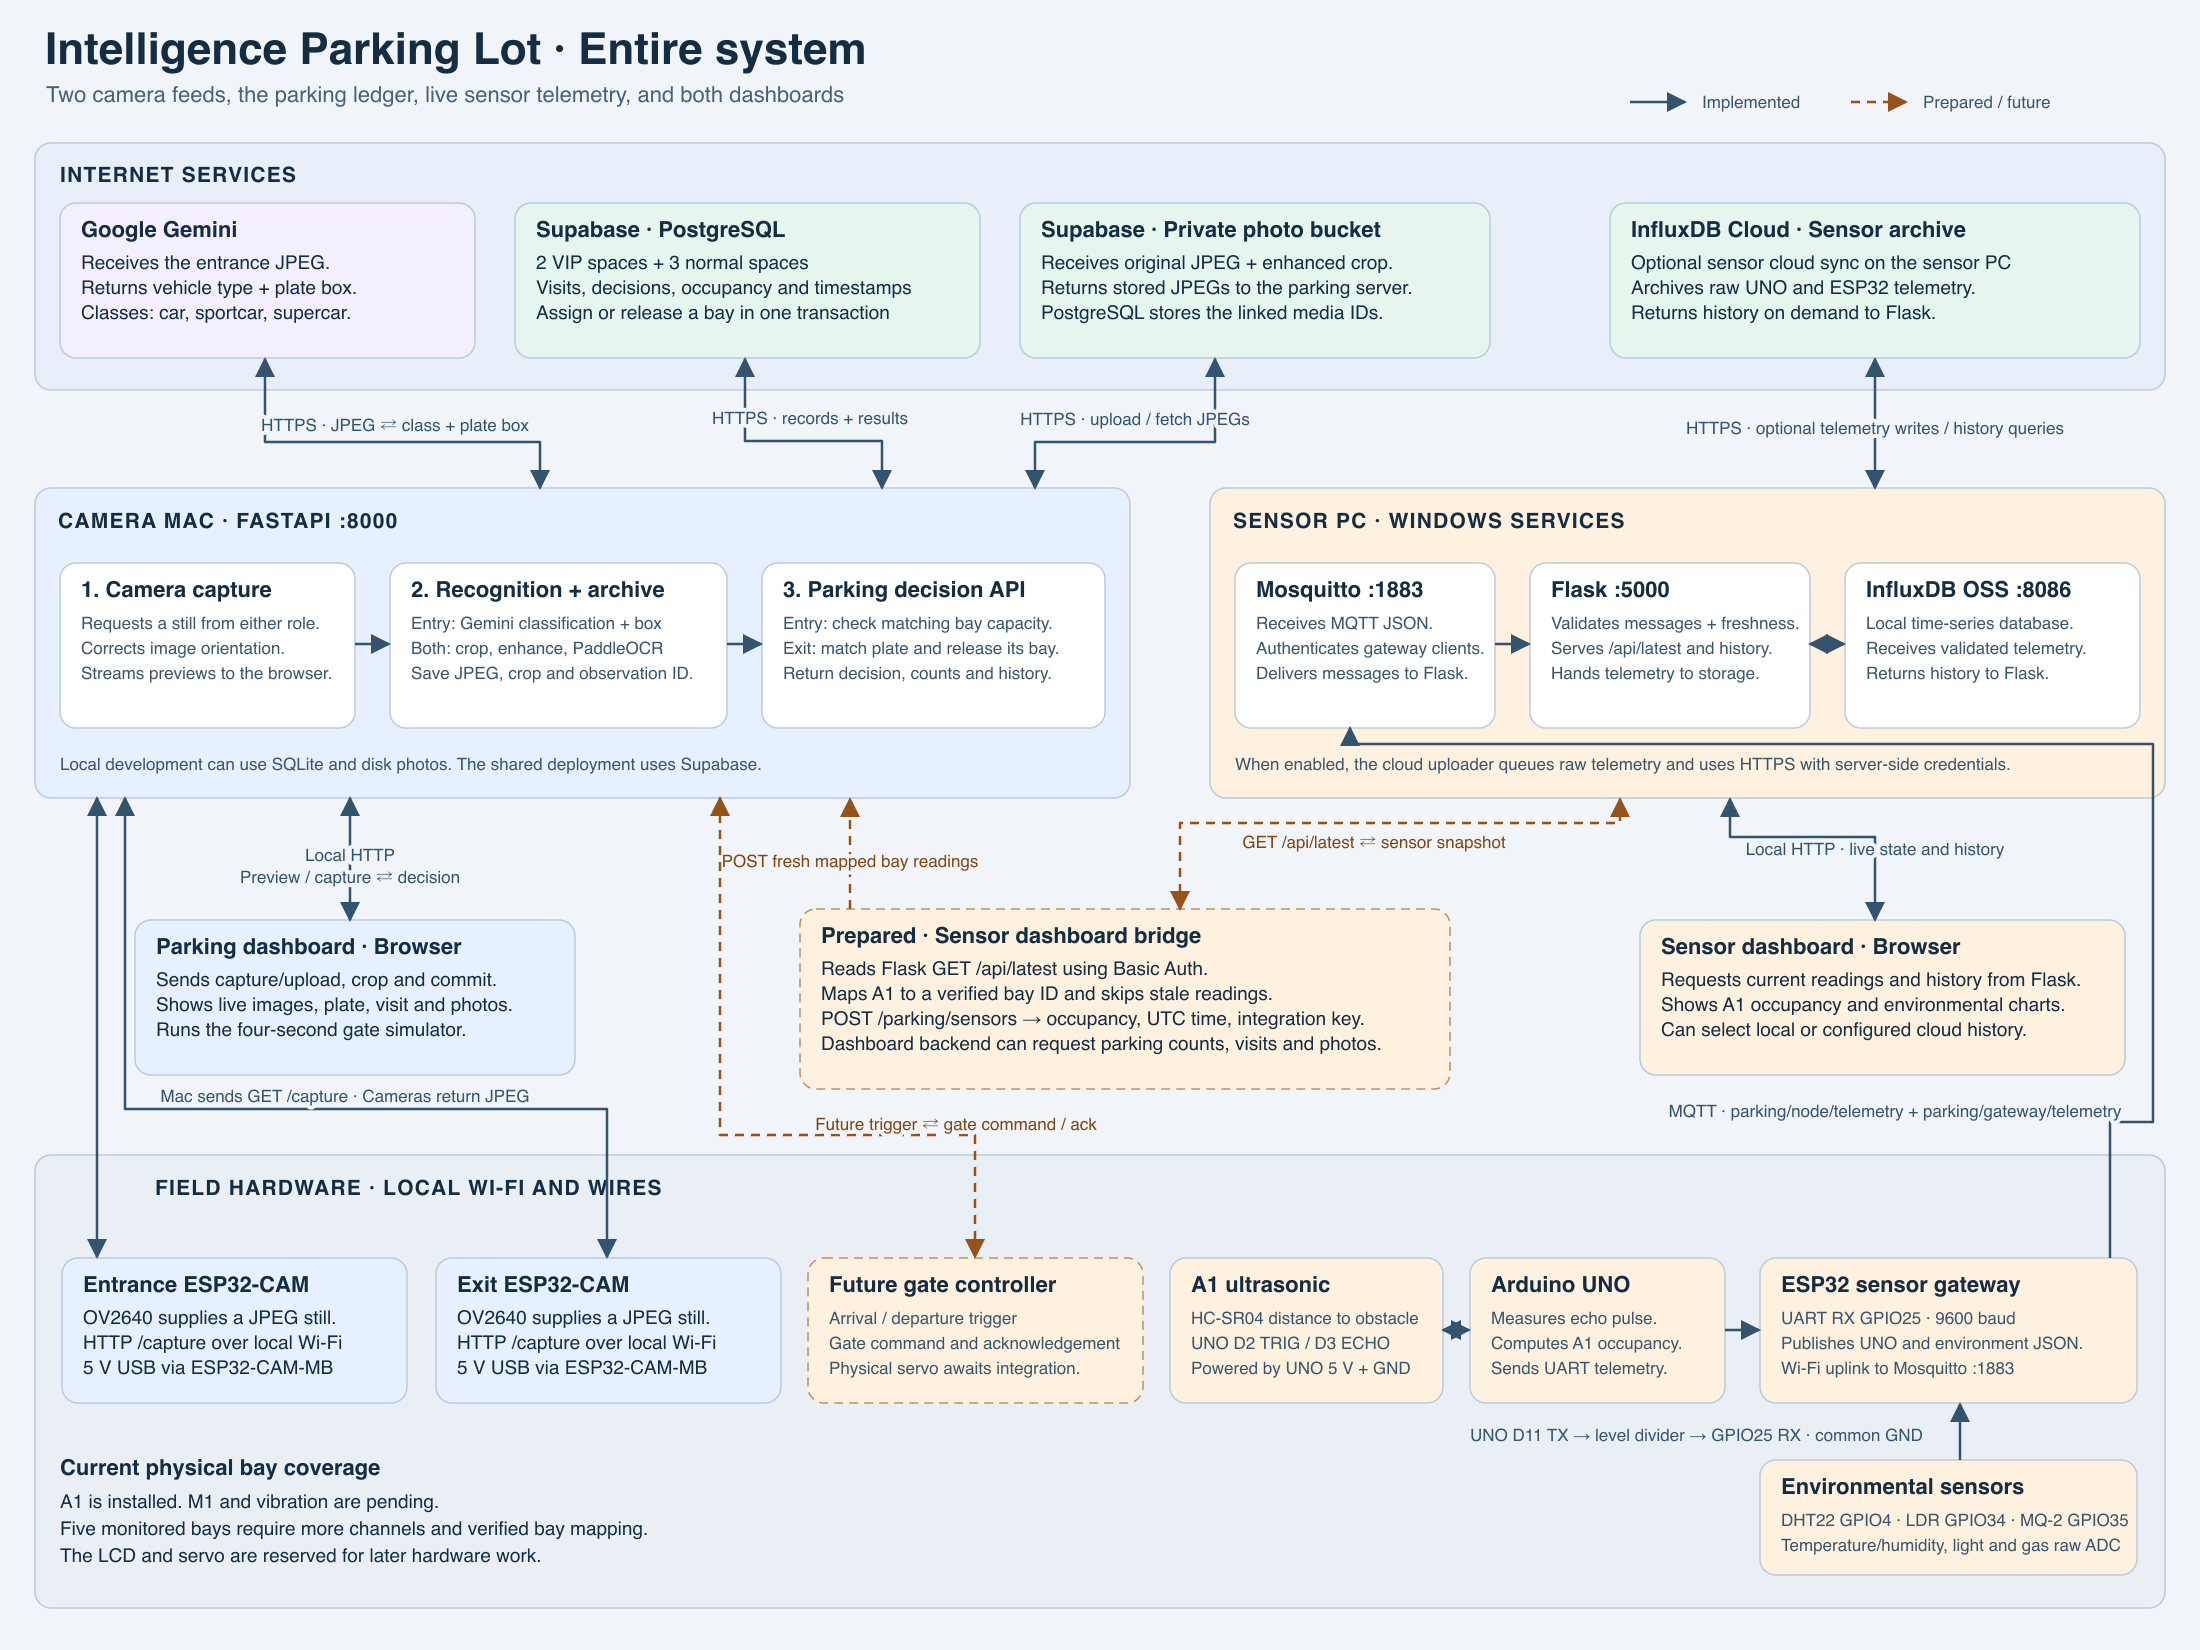
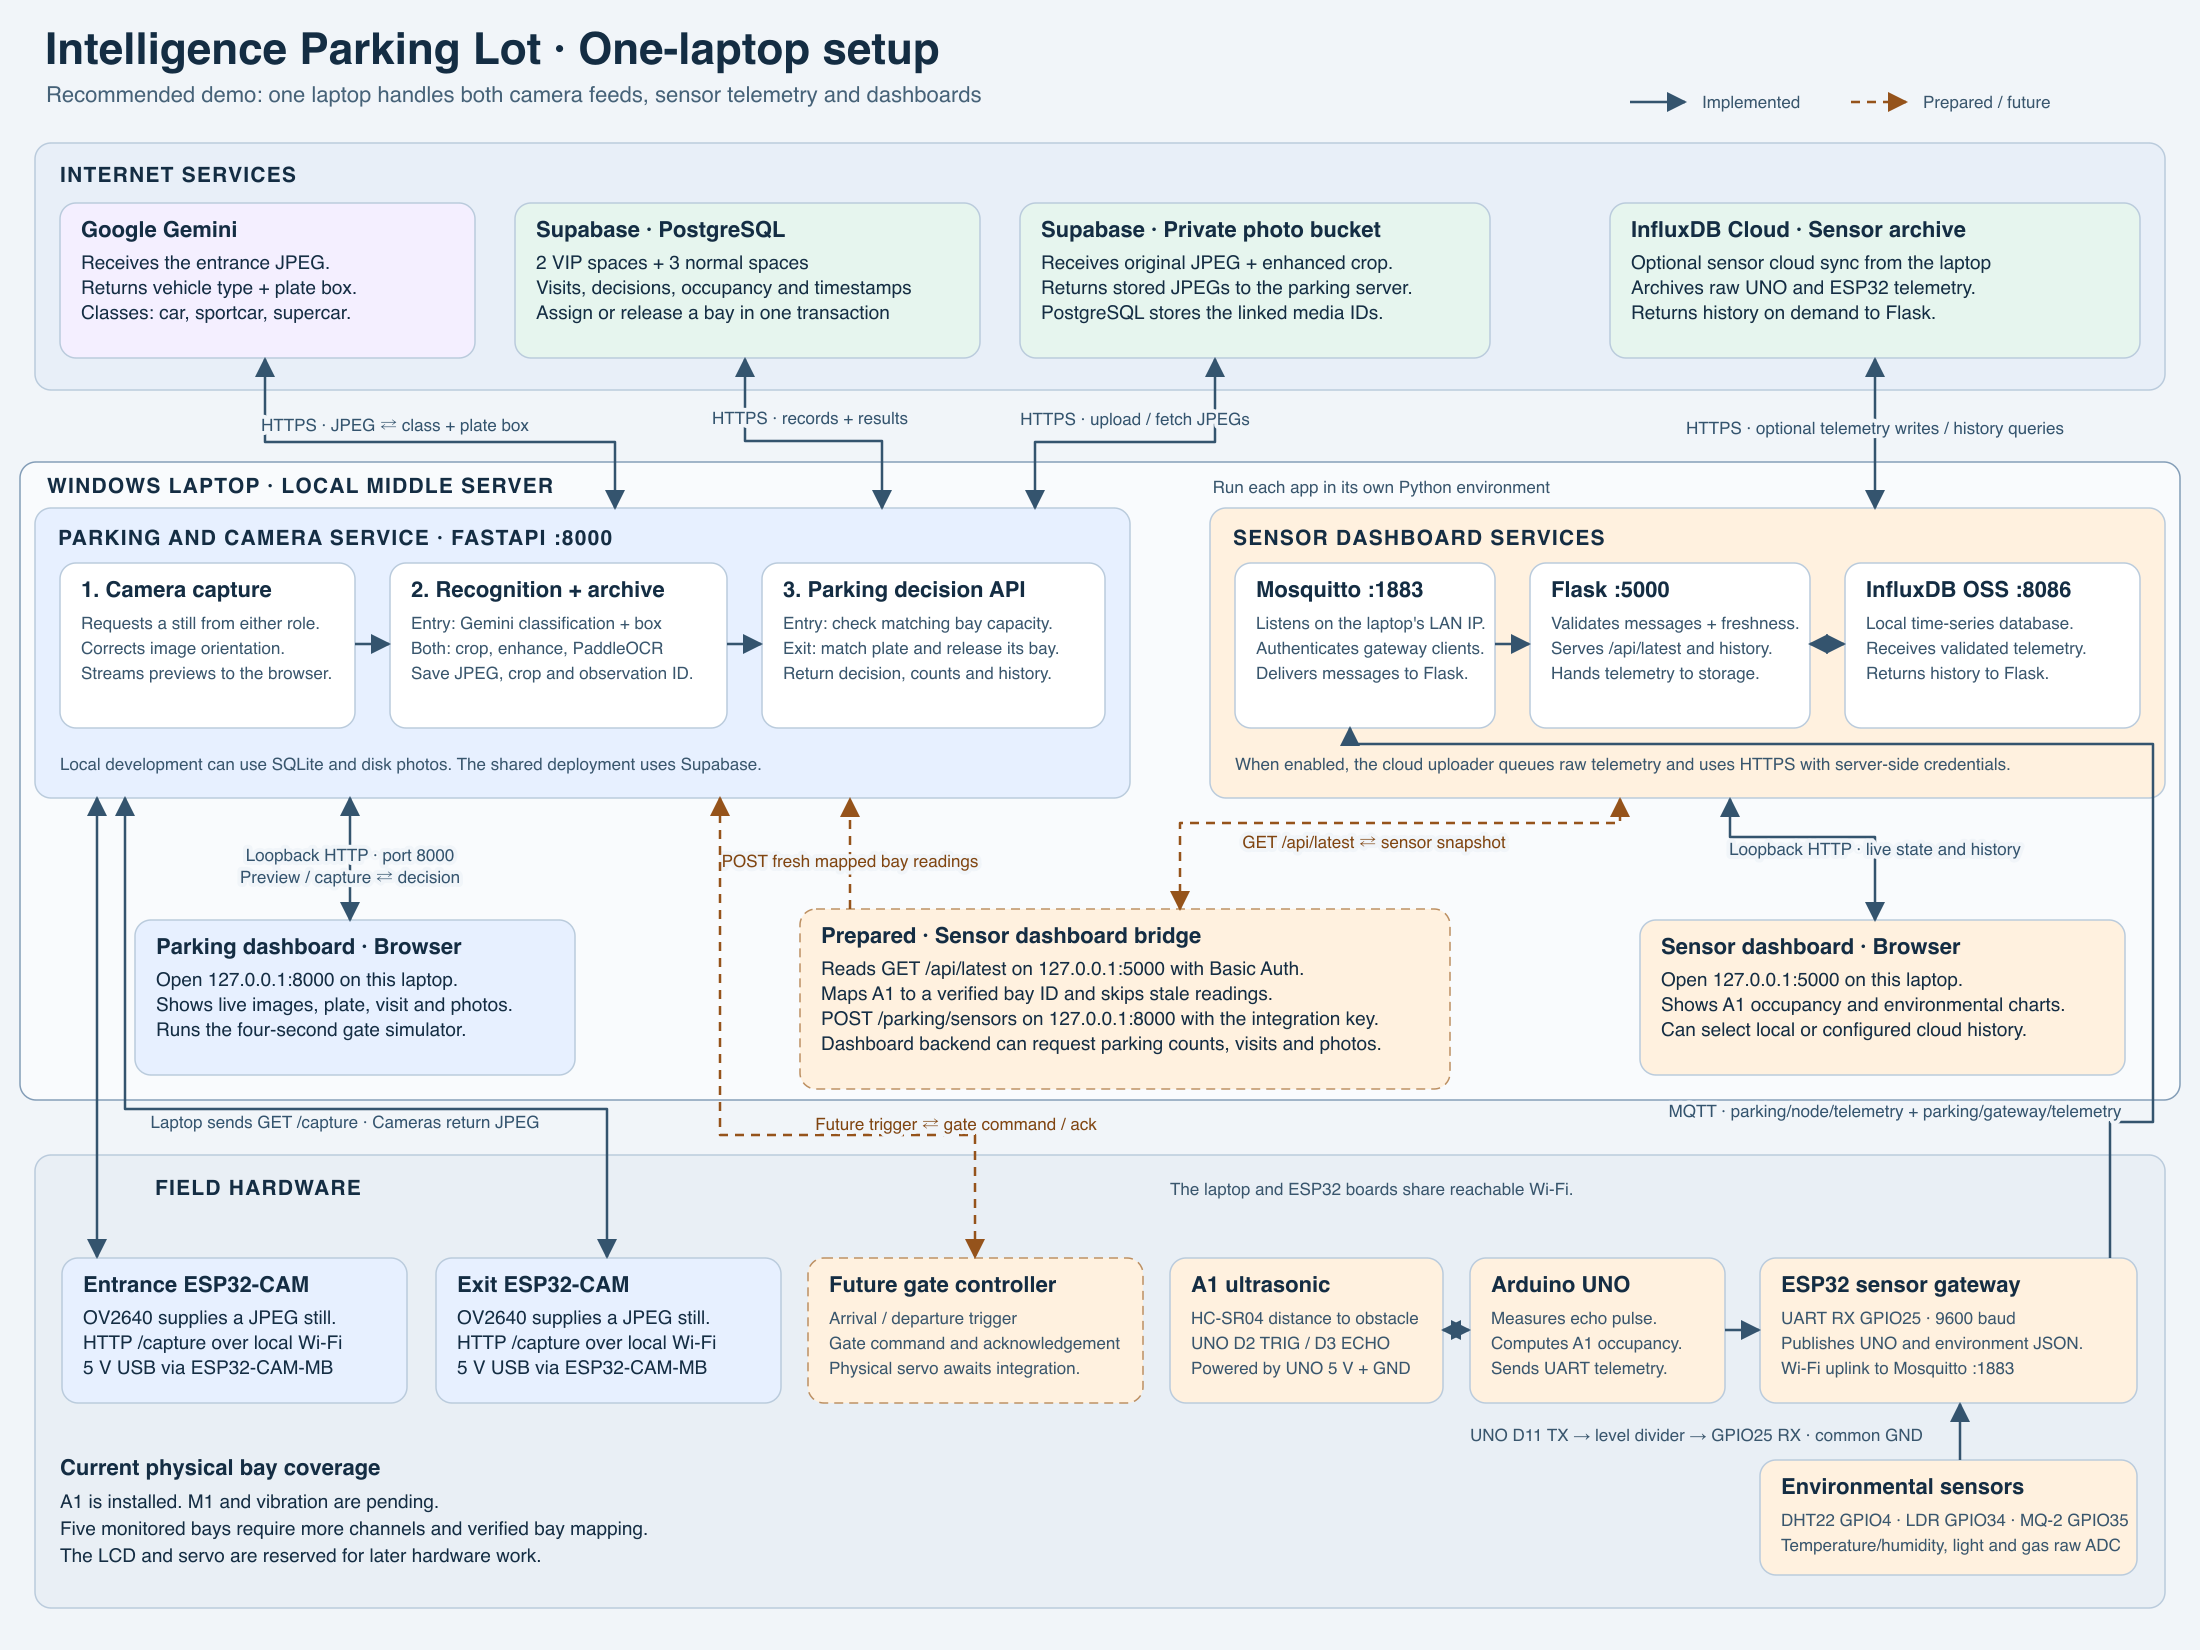
Document the one-laptop parking demo setup

diff --git a/scripts/render_parking_diagrams.py b/scripts/render_parking_diagrams.py
@@ -53,8 +53,8 @@ def label(x, y, *lines, dashed=False):
     text(x, y, lines, "pending-label" if dashed else "label", "middle", 22)
 
 
-text(45, 64, ["Intelligence Parking Lot · Entire system"], "title")
-text(46, 102, ["Two camera feeds, the parking ledger, live sensor telemetry, and both dashboards"], "subtitle")
+text(45, 64, ["Intelligence Parking Lot · One-laptop setup"], "title")
+text(46, 102, ["Recommended demo: one laptop handles both camera feeds, sensor telemetry and dashboards"], "subtitle")
 arrow([(1630, 102), (1685, 102)])
 text(1702, 108, ["Implemented"], "small")
 arrow([(1851, 102), (1906, 102)], dashed=True)
@@ -78,13 +78,17 @@ box(1020, 203, 470, 155, "Supabase · Private photo bucket", [
     "PostgreSQL stores the linked media IDs.",
 ], "#e6f5ee")
 box(1610, 203, 530, 155, "InfluxDB Cloud · Sensor archive", [
-    "Optional sensor cloud sync on the sensor PC",
+    "Optional sensor cloud sync from the laptop",
     "Archives raw UNO and ESP32 telemetry.",
     "Returns history on demand to Flask.",
 ], "#e6f5ee")
 
-panel(35, 488, 1095, 310, "#e7f0ff")
-text(58, 528, ["CAMERA MAC  ·  FASTAPI  :8000"], "section")
+panel(20, 462, 2160, 638, "#f9fbfd", "#839db7")
+text(47, 493, ["WINDOWS LAPTOP  ·  LOCAL MIDDLE SERVER"], "section")
+text(1550, 493, ["Run each app in its own Python environment"], "small", "end")
+
+panel(35, 508, 1095, 290, "#e7f0ff")
+text(58, 545, ["PARKING AND CAMERA SERVICE  ·  FASTAPI  :8000"], "section")
 box(60, 563, 295, 165, "1. Camera capture", [
     "Requests a still from either role.",
     "Corrects image orientation.",
@@ -104,10 +108,10 @@ arrow([(355, 644), (389, 644)])
 arrow([(727, 644), (761, 644)])
 text(60, 770, ["Local development can use SQLite and disk photos. The shared deployment uses Supabase."], "small")
 
-panel(1210, 488, 955, 310, "#fff1df")
-text(1233, 528, ["SENSOR PC  ·  WINDOWS SERVICES"], "section")
+panel(1210, 508, 955, 290, "#fff1df")
+text(1233, 545, ["SENSOR DASHBOARD SERVICES"], "section")
 box(1235, 563, 260, 165, "Mosquitto :1883", [
-    "Receives MQTT JSON.",
+    "Listens on the laptop's LAN IP.",
     "Authenticates gateway clients.",
     "Delivers messages to Flask.",
 ], cls="small")
@@ -125,42 +129,43 @@ arrow([(1495, 644), (1529, 644)])
 arrow([(1810, 644), (1844, 644)], both=True)
 text(1235, 770, ["When enabled, the cloud uploader queues raw telemetry and uses HTTPS with server-side credentials."], "small")
 
-arrow([(540, 488), (540, 442), (265, 442), (265, 359)], both=True)
+arrow([(615, 508), (615, 442), (265, 442), (265, 359)], both=True)
 label(395, 431, "HTTPS · JPEG ⇄ class + plate box")
-arrow([(882, 488), (882, 441), (745, 441), (745, 359)], both=True)
+arrow([(882, 508), (882, 441), (745, 441), (745, 359)], both=True)
 label(810, 424, "HTTPS · records + results")
-arrow([(1035, 488), (1035, 442), (1215, 442), (1215, 359)], both=True)
+arrow([(1035, 508), (1035, 442), (1215, 442), (1215, 359)], both=True)
 label(1135, 425, "HTTPS · upload / fetch JPEGs")
-arrow([(1875, 488), (1875, 359)], both=True)
+arrow([(1875, 508), (1875, 359)], both=True)
 label(1875, 434, "HTTPS · optional telemetry writes / history queries")
 
 box(135, 920, 440, 155, "Parking dashboard · Browser", [
-    "Sends capture/upload, crop and commit.",
+    "Open 127.0.0.1:8000 on this laptop.",
     "Shows live images, plate, visit and photos.",
     "Runs the four-second gate simulator.",
 ], "#e7f0ff")
 box(800, 909, 650, 180, "Prepared · Sensor dashboard bridge", [
-    "Reads Flask GET /api/latest using Basic Auth.",
+    "Reads GET /api/latest on 127.0.0.1:5000 with Basic Auth.",
     "Maps A1 to a verified bay ID and skips stale readings.",
-    "POST /parking/sensors → occupancy, UTC time, integration key.",
+    "POST /parking/sensors on 127.0.0.1:8000 with the integration key.",
     "Dashboard backend can request parking counts, visits and photos.",
 ], "#fff1df", dashed=True)
 box(1640, 920, 485, 155, "Sensor dashboard · Browser", [
-    "Requests current readings and history from Flask.",
+    "Open 127.0.0.1:5000 on this laptop.",
     "Shows A1 occupancy and environmental charts.",
     "Can select local or configured cloud history.",
 ], "#fff1df")
 arrow([(350, 920), (350, 798)], both=True)
-label(350, 861, "Local HTTP", "Preview / capture ⇄ decision")
+label(350, 861, "Loopback HTTP · port 8000", "Preview / capture ⇄ decision")
 arrow([(1875, 920), (1875, 837), (1730, 837), (1730, 799)], both=True)
-label(1875, 855, "Local HTTP · live state and history")
+label(1875, 855, "Loopback HTTP · live state and history")
 arrow([(1180, 909), (1180, 823), (1620, 823), (1620, 799)], both=True, dashed=True)
 label(1374, 848, "GET /api/latest ⇄ sensor snapshot", dashed=True)
 arrow([(850, 909), (850, 799)], dashed=True)
 label(850, 867, "POST fresh mapped bay readings", dashed=True)
 
 panel(35, 1155, 2130, 453, "#e9eff5")
-text(155, 1195, ["FIELD HARDWARE  ·  LOCAL WI-FI AND WIRES"], "section")
+text(155, 1195, ["FIELD HARDWARE"], "section")
+text(1170, 1195, ["The laptop and ESP32 boards share reachable Wi-Fi."], "small")
 box(62, 1258, 345, 145, "Entrance ESP32-CAM", [
     "OV2640 supplies a JPEG still.",
     "HTTP /capture over local Wi-Fi",
@@ -197,7 +202,7 @@ box(1760, 1460, 377, 115, "Environmental sensors", [
 ], "#fff1df", cls="small")
 arrow([(97, 798), (97, 1257)], both=True)
 arrow([(125, 798), (125, 1109), (607, 1109), (607, 1257)], both=True)
-label(345, 1102, "Mac sends GET /capture · Cameras return JPEG")
+label(345, 1128, "Laptop sends GET /capture · Cameras return JPEG")
 arrow([(1443, 1330), (1469, 1330)], both=True)
 arrow([(1725, 1330), (1759, 1330)])
 text(1470, 1441, ["UNO D11 TX → level divider → GPIO25 RX · common GND"], "small")

diff --git a/README.md b/README.md
@@ -2,11 +2,26 @@
 
 Intelligence Parking Lot combines two ESP32-CAM cameras, Gemini vehicle classification, local PaddleOCR, and a five-space parking ledger. The web dashboard previews both cameras, reads plates, checks available spaces by vehicle type, and records simulated gate decisions. Run with SQLite and local photos for development or use Supabase for shared records and private photo storage.
 
-![Camera, sensor dashboard, parking API, and cloud data flow](docs/parking-system-flow.png)
+![One-laptop architecture with both cameras, both dashboards, sensors, and cloud services](docs/parking-system-flow.png)
+
+## Recommended demo setup
+
+Use the Windows laptop that already runs the sensor dashboard as the local server for both projects. Keep each project in its own Python environment. Both dashboards and the sensor bridge can use loopback addresses, so communication between the apps stays on the laptop. Keep the laptop awake during the demo because it serves both dashboards.
+
+| Service | Address | Connection |
+|---|---|---|
+| Parking dashboard and camera previews | `http://127.0.0.1:8000` | The browser connects to FastAPI. FastAPI requests a JPEG from each ESP32-CAM over Wi-Fi. |
+| Sensor dashboard | `http://127.0.0.1:5000` | The browser connects to Flask for live readings and history. |
+| Mosquitto | Laptop Wi-Fi IP, TCP `1883` | The ESP32 sensor gateway publishes telemetry over Wi-Fi. |
+| InfluxDB OSS | `http://127.0.0.1:8086` | Flask stores and reads local sensor history. |
+
+1. Start the companion sensor services on the Windows laptop with `scripts/start-native.ps1` from its project directory. Keep the laptop, both cameras and the sensor gateway on a reachable Wi-Fi network. Use the laptop's Wi-Fi IP for the gateway's broker address. [Companion sensor setup](https://github.com/ananyaknr/iot-parking-dashboard#start-and-stop)
+2. Set up the parking project on the same laptop using the steps below. Configure both capture URLs and start FastAPI on port `8000`. The laptop uses internet access for Gemini classification and, when configured, the Supabase ledger and photo archive. The sensor dashboard can also use its optional InfluxDB Cloud archive.
+3. Open the two dashboards on the laptop. Once the physical sensor-to-bay mapping is confirmed and Supabase is configured, the optional bridge can read Flask on port `5000` and forward occupancy to FastAPI on port `8000`. [Sensor bridge setup](docs/sensor-dashboard-integration.md#adapter-for-the-existing-sensor-project)
 
 ## How it works
 
-1. **Entrance.** Select Entrance and click **Simulate sensor alert** to take a fresh JPEG over Wi-Fi. Gemini receives the still image and returns a vehicle type and proposed plate box. The Mac crops and enhances the plate, then reads Thai or English text locally with PaddleOCR.
+1. **Entrance.** Select Entrance and click **Simulate sensor alert** to take a fresh JPEG over Wi-Fi. Gemini receives the still image and returns a vehicle type and proposed plate box. The parking server crops and enhances the plate, then reads Thai or English text locally with PaddleOCR.
 2. **Review.** Check the vehicle type and plate. If the box is off, draw a new one around the registration characters and click **Read selected plate**. A recrop of the same entrance photo reuses its Gemini result. You can also use **Or open a test photo** and draw the plate box to test without a camera.
 3. **Admission.** Click **Check gate & register entry / exit**. The backend uses the saved observation to check capacity and allocate a matching bay. The web gate opens for four seconds after a new approved decision.
 4. **Exit.** Select Exit and repeat the capture and review. Exit runs PaddleOCR locally. When the plate matches an active visit, the backend closes that visit and releases its assigned bay. The dashboard displays availability, entry and exit times in Bangkok time, decisions, and archived photo links.
